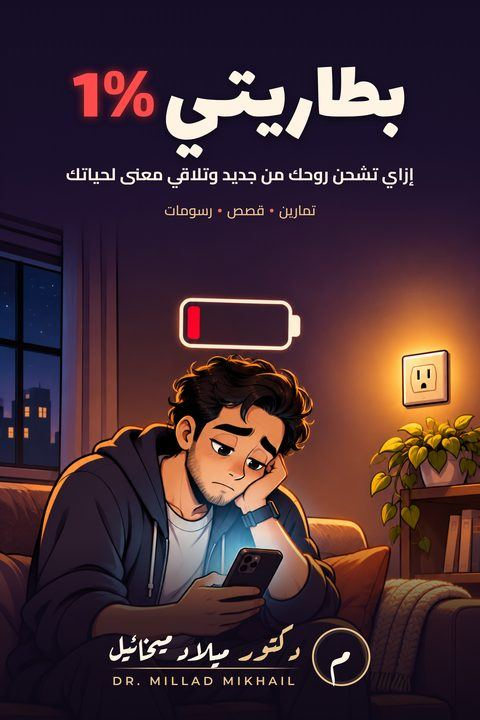
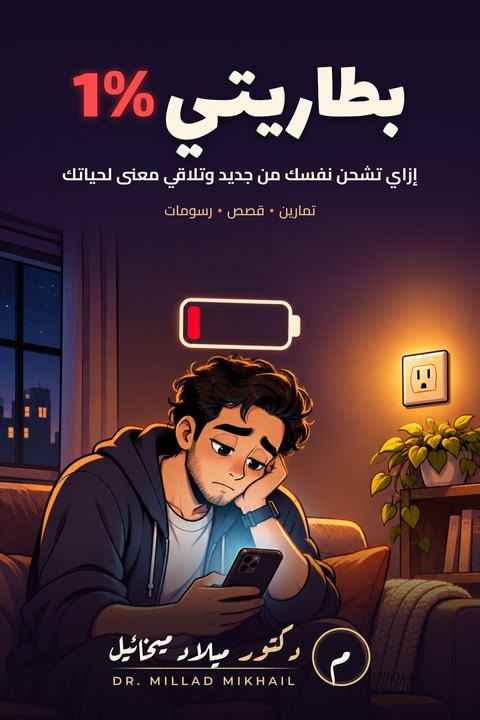
Battery book: mark as published, new cover and subtitle (Amazon link pending)
Buy buttons use the __BATT__ placeholder until the book's ASIN is known; do not merge before it is replaced.

Claude-Session: https://claude.ai/code/session_014DRhzpnqgSUQURJa6KnQ5b

Changed region(s): [[0.125, 0.2139, 0.875, 0.275], [0.9375, 0.5806, 0.9688, 0.6111], [0.625, 0.7333, 0.6562, 0.7639]]

diff --git a/battery/index.html b/battery/index.html
@@ -5,22 +5,22 @@
 <meta http-equiv="Content-Security-Policy" content="default-src 'self'; script-src 'self' https://www.googletagmanager.com https://static.cloudflareinsights.com; style-src 'self' 'unsafe-inline'; font-src 'self'; img-src 'self' https://*.google-analytics.com https://www.googletagmanager.com data: https://images.unsplash.com https://i.ytimg.com; frame-src https://www.youtube-nocookie.com; connect-src 'self' https://*.google-analytics.com https://*.analytics.google.com https://www.googletagmanager.com https://cloudflareinsights.com; object-src 'none'; base-uri 'self'; form-action 'self' https://formsubmit.co; upgrade-insecure-requests">
 <meta name="referrer" content="strict-origin-when-cross-origin">
 <meta name="viewport" content="width=device-width, initial-scale=1">
-<title>بطاريتي 1% (قريبًا) | د. ميلاد ميخائيل</title>
-<meta name="description" content="«بطاريتي 1%»: كتاب جديد قريبًا لـ د. ميلاد ميخائيل عن إزاي تشحن روحك وتلاقي معنى لحياتك.">
+<title>بطاريتي 1% | د. ميلاد ميخائيل</title>
+<meta name="description" content="«بطاريتي 1%»: كتاب جديد لـ د. ميلاد ميخائيل عن إزاي تشحن نفسك من جديد وتلاقي معنى لحياتك. متاح على أمازون كيندل.">
 <link rel="canonical" href="https://drmilladmikhail.com/battery/">
 <meta property="og:site_name" content="د. ميلاد ميخائيل">
 <meta property="og:type" content="website">
 <meta property="og:url" content="https://drmilladmikhail.com/battery/">
-<meta property="og:title" content="بطاريتي 1% (قريبًا)">
-<meta property="og:description" content="«بطاريتي 1%»: كتاب جديد قريبًا لـ د. ميلاد ميخائيل عن إزاي تشحن روحك وتلاقي معنى لحياتك.">
+<meta property="og:title" content="بطاريتي 1%">
+<meta property="og:description" content="«بطاريتي 1%»: كتاب جديد لـ د. ميلاد ميخائيل عن إزاي تشحن نفسك من جديد وتلاقي معنى لحياتك. متاح على أمازون كيندل.">
 <meta property="og:image" content="https://drmilladmikhail.com/assets/og/home.jpg">
 <meta property="og:image:width" content="1200">
 <meta property="og:image:height" content="630">
-<meta property="og:image:alt" content="بطاريتي 1% (قريبًا)">
+<meta property="og:image:alt" content="بطاريتي 1%">
 <meta property="og:locale" content="ar_EG">
 <meta name="twitter:card" content="summary_large_image">
-<meta name="twitter:title" content="بطاريتي 1% (قريبًا)">
-<meta name="twitter:description" content="«بطاريتي 1%»: كتاب جديد قريبًا لـ د. ميلاد ميخائيل عن إزاي تشحن روحك وتلاقي معنى لحياتك.">
+<meta name="twitter:title" content="بطاريتي 1%">
+<meta name="twitter:description" content="«بطاريتي 1%»: كتاب جديد لـ د. ميلاد ميخائيل عن إزاي تشحن نفسك من جديد وتلاقي معنى لحياتك. متاح على أمازون كيندل.">
 <meta name="twitter:image" content="https://drmilladmikhail.com/assets/og/home.jpg">
 <meta name="theme-color" content="#2f6f62">
 <link rel="preload" href="/assets/fonts/ibm-plex-sans-arabic-arabic-400-normal.woff2" as="font" type="font/woff2" crossorigin><link rel="preload" href="/assets/fonts/noto-naskh-arabic-arabic-700-normal.woff2" as="font" type="font/woff2" crossorigin><link rel="stylesheet" href="/assets/fonts.css?v=256db9ca">
@@ -40,7 +40,7 @@
     "url": "https://drmilladmikhail.com/about/"
   },
   "image": "https://drmilladmikhail.com/assets/battery-cover.jpg",
-  "description": "إزاي تشحن روحك من جديد وتلاقي معنى لحياتك — قريبًا."
+  "description": "إزاي تشحن نفسك من جديد وتلاقي معنى لحياتك."
 }
 </script>
 <link rel="stylesheet" id="nav-layout-fix" href="/assets/nav-layout.css?v=50ab5a7b">
@@ -181,26 +181,27 @@
           <img src="/assets/battery-cover.jpg" width="480" height="720" alt="غلاف كتاب بطاريتي 1% لـ د. ميلاد ميخائيل">
         </picture>
         <div>
-          <p class="badge-soon">قريبًا</p>
+          <p class="badge-soon">جديد</p>
           <h1>بطاريتي 1%</h1>
-          <p class="sub">إزاي تشحن روحك من جديد وتلاقي معنى لحياتك</p>
+          <p class="sub">إزاي تشحن نفسك من جديد وتلاقي معنى لحياتك</p>
           <p>كتاب جديد بالعامية المصرية، فيه تمارين وقصص ورسومات، للأيام اللي بتحس فيها إن طاقتك خلصت ومش لاقي سبب تكمّل بيه.</p>
           <p>الكتاب قريب من موضوع رسالة الدكتوراه بتاعتي: الإرشاد بالمعنى (العلاج بالمعنى عند فيكتور فرانكل) والمناعة النفسية، بس مكتوب للناس العادية، مش للمتخصصين.</p>
-          <p><b>عايز تعرف أول ما ينزل؟</b> تابع قناة «جلسة شيزلونج» أو المدونة.</p>
+          <p>هتمشي الرحلة مع سارة وأمير، نفس شخصيات «ليه بنحب اللي بيوجعنا؟»، ومعاك أكتر من 15 تمرين، و4 تحديات 7 أيام، و18 رسمة.</p>
+          <p><b>متاح دلوقتي على أمازون كيندل.</b> تقدر تقراه على تطبيق Kindle المجاني على الموبايل أو الكمبيوتر.</p>
           <div class="actions">
-            <a class="btn primary" href="https://www.youtube.com/@DrMilladMikhail?sub_confirmation=1" target="_blank" rel="noopener">اشترك في القناة</a>
-            <a class="btn" href="https://blog.drmilladmikhail.com/" target="_blank" rel="noopener">المدونة</a>
+            <a class="btn primary" href="__BATT__" target="_blank" rel="noopener">اشتري الكتاب على أمازون</a>
+            <a class="btn" href="/book/">كل كتبي</a>
           </div>
         </div>
       </article>
-      <h2 class="sec-h">لحد ما ينزل، جرّب دول</h2>
+      <h2 class="sec-h">وكمان جرّب دول</h2>
       <ul class="link-grid">
         <li><a href="/game/"><b>لعبة «بطاريتي <span dir="ltr">1%</span>»</b><span>عيش يوم كامل وشوف إيه اللي بيشحنك وإيه اللي بيسحب منك.</span></a></li>
         <li><a href="/tests/wellbeing-who5/"><b>مؤشر الرفاهية النفسية (WHO-5)</b><span>طاقتك ومزاجك عاملين إيه آخر أسبوعين؟</span></a></li>
         <li><a href="/videos/#immunity"><b>فيديوهات المناعة النفسية</b><span>إزاي تقف تاني بعد الضغوط.</span></a></li>
         <li><a href="/articles/"><b>المقالات</b><span>مقال جديد كل اتنين وخميس.</span></a></li>
       </ul>
-      <aside class="share" data-url="https://drmilladmikhail.com/battery/" data-title="بطاريتي 1% — كتاب جديد قريبًا لـ د. ميلاد ميخائيل" aria-label="شارك الصفحة">
+      <aside class="share" data-url="https://drmilladmikhail.com/battery/" data-title="بطاريتي 1% — كتاب جديد لـ د. ميلاد ميخائيل" aria-label="شارك الصفحة">
         <p class="share-title">شارك الصفحة مع حد ممكن يحتاجه</p>
         <div class="share-row">
           <a class="sh sh-wa" href="https://wa.me/?text=%D8%A8%D8%B7%D8%A7%D8%B1%D9%8A%D8%AA%D9%8A%201%25%20%E2%80%94%20%D9%83%D8%AA%D8%A7%D8%A8%20%D8%AC%D8%AF%D9%8A%D8%AF%20%D9%82%D8%B1%D9%8A%D8%A8%D9%8B%D8%A7%20%D9%84%D9%80%20%D8%AF.%20%D9%85%D9%8A%D9%84%D8%A7%D8%AF%20%D9%85%D9%8A%D8%AE%D8%A7%D8%A6%D9%8A%D9%84%20https%3A%2F%2Fdrmilladmikhail.com%2Fbattery%2F" target="_blank" rel="noopener">واتساب</a>

diff --git a/index.html b/index.html
@@ -270,7 +270,7 @@
       "name": "إيه الكتب اللي ألفها؟",
       "acceptedAnswer": {
         "@type": "Answer",
-        "text": "كتاب «ليه بنحب اللي بيوجعنا؟» عن أنماط التعلّق والعلاقات المؤذية، متاح على أمازون بالعربي والإنجليزي. وكتاب «بطاريتي 1%» قريباً."
+        "text": "كتاب «ليه بنحب اللي بيوجعنا؟» عن أنماط التعلّق والعلاقات المؤذية، متاح على أمازون بالعربي والإنجليزي. وكتاب «بطاريتي 1%» عن الإرهاق النفسي والرجوع لمعنى الحياة، متاح على أمازون كيندل."
       }
     },
     {
@@ -583,8 +583,8 @@ html[lang="ar"] body.home-redesign section.section.nl-band p{margin:0;color:rgba
           <img src="/assets/battery-cover.jpg" width="480" height="720" alt="غلاف كتاب بطاريتي 1% لـ د. ميلاد ميخائيل" loading="lazy">
         </picture>
         <div>
-          <p><b>قريباً: بطاريتي <bdi dir="ltr">1%</bdi></b></p>
-          <p>إزاي تشحن روحك من جديد وتلاقي معنى لحياتك. عن الإرهاق النفسي والرجوع لمعنى الحياة. <a href="https://www.amazon.com/stores/author/B0HQ931MJP" target="_blank" rel="noopener">تابع صفحتي على أمازون</a></p>
+          <p><b>جديد: بطاريتي <bdi dir="ltr">1%</bdi></b></p>
+          <p>إزاي تشحن نفسك من جديد وتلاقي معنى لحياتك. عن الإرهاق النفسي والرجوع لمعنى الحياة. <a href="__BATT__" target="_blank" rel="noopener">متاح دلوقتي على أمازون</a></p>
         </div>
       </div>
     </div>
@@ -756,7 +756,7 @@ html[lang="ar"] body.home-redesign section.section.nl-band p{margin:0;color:rgba
         <details class="faq-item"><summary>هل د. ميلاد منير هو نفسه د. ميلاد ميخائيل؟</summary><p>أيوه، نفس الشخص. اسمه بالكامل ميلاد منير ميخائيل. اسمه دلوقتي د. ميلاد ميخائيل (Dr. Millad Mikhail)، وكان معروف قبل كده بـ«د. ميلاد منير» و«د. ميلاد منير ميخائيل»، خصوصاً في فيديوهات قناة «جلسة شيزلونج» القديمة.</p></details>
         <details class="faq-item"><summary>إيه مؤهلاته العلمية؟</summary><p>دكتوراه في الصحة النفسية من جامعة قناة السويس (2022)، وماجستير التربية تخصص الصحة النفسية من جامعة قناة السويس (2018)، والدبلوم المتخصص في الإرشاد وعلم النفس الإكلينيكي من جامعة طنطا (2021)، والدبلوم الخاص والدبلوم العام في التربية من جامعة قناة السويس. مؤهلاته مقيّمة ومعادلة أمريكياً من World Education Services (WES)، وبيدرس حالياً مقررات دراسات عليا في علم النفس كطالب زائر في JFK School of Psychology بجامعة National University في أمريكا.</p></details>
         <details class="faq-item"><summary>رسالة الدكتوراه بتاعته كانت عن إيه؟</summary><p>عنوانها «فعالية الإرشاد بالمعنى في خفض مستوى القلق الوجودي وتحسين مستوى المناعة النفسية لدى طلاب الجامعة»، من قسم الصحة النفسية بكلية التربية بالإسماعيلية، جامعة قناة السويس (2022).</p></details>
-        <details class="faq-item"><summary>إيه الكتب اللي ألفها؟</summary><p>كتاب «ليه بنحب اللي بيوجعنا؟» عن أنماط التعلّق والعلاقات المؤذية، متاح على أمازون بالعربي والإنجليزي. وكتاب «بطاريتي 1%» قريباً.</p></details>
+        <details class="faq-item"><summary>إيه الكتب اللي ألفها؟</summary><p>كتاب «ليه بنحب اللي بيوجعنا؟» عن أنماط التعلّق والعلاقات المؤذية، متاح على أمازون بالعربي والإنجليزي. وكتاب «بطاريتي 1%» عن الإرهاق النفسي والرجوع لمعنى الحياة، متاح على أمازون كيندل.</p></details>
         <details class="faq-item"><summary>هل د. ميلاد بيقدّم جلسات نفسية؟</summary><p>أيوه، بيقدّم جلسات نفسية أونلاين لأهلنا في مصر والوطن العربي، بالعربي، فيديو أو صوت، والحجز بيكون على واتساب. الجلسات مش خدمة طوارئ. <a href="/sessions/">تفاصيل الجلسات</a></p></details>
         <details class="faq-item"><summary>أتابعه فين؟</summary><p>على الموقع ده (مقالات واختبارات نفسية مجانية)، وقناة «جلسة شيزلونج» على يوتيوب، ومدونة «راحة البال» على blog.drmilladmikhail.com، وLinkedIn، وصفحته كمؤلف على أمازون.</p></details>
       </div>

diff --git a/book/index.html b/book/index.html
@@ -6,13 +6,13 @@
 <meta name="referrer" content="strict-origin-when-cross-origin">
 <meta name="viewport" content="width=device-width, initial-scale=1">
 <title>الكتب | د. ميلاد ميخائيل</title>
-<meta name="description" content="كتب د. ميلاد ميخائيل بالعامية: «ليه بنحب اللي بيوجعنا؟» عن نمط التعلق واختيار شريك الحياة، و«بطاريتي 1%» قريبًا.">
+<meta name="description" content="كتب د. ميلاد ميخائيل بالعامية: «ليه بنحب اللي بيوجعنا؟» عن نمط التعلق واختيار شريك الحياة، و«بطاريتي 1%» عن الإرهاق النفسي والرجوع لمعنى الحياة.">
 <link rel="canonical" href="https://drmilladmikhail.com/book/">
 <meta property="og:site_name" content="د. ميلاد ميخائيل">
 <meta property="og:type" content="website">
 <meta property="og:url" content="https://drmilladmikhail.com/book/">
 <meta property="og:title" content="الكتب">
-<meta property="og:description" content="كتب د. ميلاد ميخائيل بالعامية: «ليه بنحب اللي بيوجعنا؟» عن نمط التعلق واختيار شريك الحياة، و«بطاريتي 1%» قريبًا.">
+<meta property="og:description" content="كتب د. ميلاد ميخائيل بالعامية: «ليه بنحب اللي بيوجعنا؟» عن نمط التعلق واختيار شريك الحياة، و«بطاريتي 1%» عن الإرهاق النفسي والرجوع لمعنى الحياة.">
 <meta property="og:image" content="https://drmilladmikhail.com/assets/og/home.jpg">
 <meta property="og:image:width" content="1200">
 <meta property="og:image:height" content="630">
@@ -20,7 +20,7 @@
 <meta property="og:locale" content="ar_EG">
 <meta name="twitter:card" content="summary_large_image">
 <meta name="twitter:title" content="الكتب">
-<meta name="twitter:description" content="كتب د. ميلاد ميخائيل بالعامية: «ليه بنحب اللي بيوجعنا؟» عن نمط التعلق واختيار شريك الحياة، و«بطاريتي 1%» قريبًا.">
+<meta name="twitter:description" content="كتب د. ميلاد ميخائيل بالعامية: «ليه بنحب اللي بيوجعنا؟» عن نمط التعلق واختيار شريك الحياة، و«بطاريتي 1%» عن الإرهاق النفسي والرجوع لمعنى الحياة.">
 <meta name="twitter:image" content="https://drmilladmikhail.com/assets/og/home.jpg">
 <meta name="theme-color" content="#2f6f62">
 <link rel="preload" href="/assets/fonts/ibm-plex-sans-arabic-arabic-400-normal.woff2" as="font" type="font/woff2" crossorigin><link rel="preload" href="/assets/fonts/noto-naskh-arabic-arabic-700-normal.woff2" as="font" type="font/woff2" crossorigin><link rel="stylesheet" href="/assets/fonts.css?v=256db9ca">
@@ -273,11 +273,14 @@
           <img src="/assets/battery-cover.jpg" width="480" height="720" alt="غلاف كتاب بطاريتي 1%" loading="lazy">
         </picture>
         <div>
-          <p class="badge-soon">قريبًا</p>
+          <p class="badge-soon">جديد</p>
           <h2>بطاريتي 1%</h2>
-          <p class="sub">إزاي تشحن روحك من جديد وتلاقي معنى لحياتك</p>
+          <p class="sub">إزاي تشحن نفسك من جديد وتلاقي معنى لحياتك</p>
           <p>تمارين وقصص ورسومات، للأيام اللي بتحس فيها إن طاقتك خلصت.</p>
-          <div class="actions"><a class="btn" href="/battery/">اعرف أكتر</a></div>
+          <div class="actions">
+            <a class="btn primary" href="__BATT__" target="_blank" rel="noopener">اشتري الكتاب (Kindle)</a>
+            <a class="btn" href="/battery/">اعرف أكتر</a>
+          </div>
         </div>
       </article>
       <aside class="share" data-url="https://drmilladmikhail.com/book/" data-title="كتب د. ميلاد ميخائيل: ليه بنحب اللي بيوجعنا؟ وبطاريتي 1%" aria-label="شارك الصفحة">

diff --git a/shelf/index.html b/shelf/index.html
@@ -255,7 +255,7 @@
         <p><b>رأيي فيه:</b> الفرق بين «العقلية الثابتة» و«عقلية النمو»: إنك تشوف الفشل معلومة مش حكم عليك.</p><p class="bk-for"><b>مناسب لـ:</b> الطلاب، والأهالي، واللي بيخاف يجرّب عشان ميفشلش.</p>
         <div class="rate" role="group" aria-label="قيّم الكتاب ده">قرأته؟ قيّمه: <button type="button" class="star" data-v="1" aria-label="1 من 5">★</button><button type="button" class="star" data-v="2" aria-label="2 من 5">★</button><button type="button" class="star" data-v="3" aria-label="3 من 5">★</button><button type="button" class="star" data-v="4" aria-label="4 من 5">★</button><button type="button" class="star" data-v="5" aria-label="5 من 5">★</button><span class="rate-msg"></span></div></div></li></ul>
       <p class="fine">تقييمك بيتحفظ على جهازك بس. التقييمات العامة والمراجعات هتظهر في التعليقات تحت لما تفتح.</p>
-      <div class="two shelf-more"><div><h2>من كتبي</h2><ul class="res-list"><li><a href="/book/"><b>ليه بنحب اللي بيوجعنا؟</b><span>كتابي عن أنماط التعلّق والعلاقات المؤذية، بالعربي والإنجليزي.</span></a></li><li><a href="/battery/"><b>بطاريتي 1%</b><span>قريباً: عن الإرهاق النفسي والرجوع لمعنى الحياة.</span></a></li></ul></div>
+      <div class="two shelf-more"><div><h2>من كتبي</h2><ul class="res-list"><li><a href="/book/"><b>ليه بنحب اللي بيوجعنا؟</b><span>كتابي عن أنماط التعلّق والعلاقات المؤذية، بالعربي والإنجليزي.</span></a></li><li><a href="/battery/"><b>بطاريتي 1%</b><span>كتابي التاني عن الإرهاق النفسي والرجوع لمعنى الحياة، متاح على أمازون كيندل.</span></a></li></ul></div>
       <div><h2>أدوات ومحتوى مسموع</h2><ul class="res-list"><li><a href="https://www.youtube.com/@DrMilladMikhail" target="_blank" rel="noopener"><b>قناة «جلسة شيزلونج» على يوتيوب</b><span>فيديوهات بالعربي عن العلاقات والقلق والمعنى، تتسمع زي البودكاست.</span></a></li><li><a href="https://insighttimer.com/" target="_blank" rel="noopener"><b>Insight Timer</b><span>تطبيق مجاني فيه آلاف التأملات وتمارين التنفس، وفيه محتوى بلغات كتير.</span></a></li><li><a href="/feelings/"><b>عجلة المشاعر</b><span>أداة على الموقع تساعدك تسمّي إحساسك بالظبط.</span></a></li><li><a href="/worksheets/"><b>أوراق التمرين</b><span>ملفات PDF مجانية تطبعها وتكتب فيها.</span></a></li></ul></div></div>
       <section class="story-send suggest" aria-labelledby="sug-h">
         <h2 id="sug-h">اقترح كتاب أو أداة فرقت معاك</h2>

diff --git a/about/index.html b/about/index.html
@@ -287,7 +287,7 @@
       <ul class="link-grid">
         <li><a href="/about/qualifications/"><b>المؤهلات العلمية</b><span>الدرجات العلمية والتقييم الأمريكي (WES).</span></a></li>
         <li><a href="/about/publications/"><b>الرسائل العلمية والأبحاث</b><span>رسالة الدكتوراه والماجستير وأبحاث المؤتمرات.</span></a></li>
-        <li><a href="/book/"><b>الكتب</b><span>«ليه بنحب اللي بيوجعنا؟» و«بطاريتي 1%» (قريبًا).</span></a></li>
+        <li><a href="/book/"><b>الكتب</b><span>«ليه بنحب اللي بيوجعنا؟» و«بطاريتي 1%».</span></a></li>
         <li><a href="/articles/"><b>المقالات</b><span>مقالات مبسّطة بمراجع علمية.</span></a></li>
         <li><a href="/family/"><b>التوعية الأسرية والزوجية</b><span>كل محتوى العلاقات والزواج في مكان واحد.</span></a></li>
         <li><a href="/contact/"><b>تواصل</b><span>للجلسات أو التعاون أو الأسئلة.</span></a></li>

diff --git a/game/index.html b/game/index.html
@@ -203,7 +203,7 @@
         <p>لو بتمر بأزمة دلوقتي أو عندك أفكار إنك تأذي نفسك: في مصر الخط الساخن للدعم النفسي <b>16328</b>، وفي أمريكا <b>988</b> (اتصال أو رسالة). وكل الأرقام في صفحة <a href="/help-now/">محتاج مساعدة دلوقتي</a>.</p>
       </div>
       <ul class="link-grid">
-        <li><a href="/battery/"><b>كتاب «بطاريتي <span dir="ltr">1%</span>»</b><span>إزاي تشحن روحك من جديد وتلاقي معنى لحياتك.</span></a></li>
+        <li><a href="/battery/"><b>كتاب «بطاريتي <span dir="ltr">1%</span>»</b><span>إزاي تشحن نفسك من جديد وتلاقي معنى لحياتك.</span></a></li>
         <li><a href="/tests/burnout-cbi/"><b>مقياس الاحتراق النفسي</b><span>تعبك ده إرهاق عادي ولا احتراق؟</span></a></li>
         <li><a href="/tests/meaning-in-life-mlq/"><b>مقياس المعنى في الحياة</b><span>حاسس إن حياتك ليها معنى؟</span></a></li>
       </ul>

diff --git a/assets/game/game.js b/assets/game/game.js
@@ -177,7 +177,7 @@
       '<div class="bg-actions"><button type="button" class="bg-btn" data-act="share">صورة لنتيجتك</button>' +
       '<button type="button" class="bg-btn bg-ghost" data-act="again">عيش يوم جديد</button></div>' +
       '<div class="bg-share" hidden></div>' +
-      '<div class="bg-card bg-book"><h3>الحكاية مكمّلة في الكتاب</h3><p>«بطاريتي 1%: إزاي تشحن روحك من جديد وتلاقي معنى لحياتك». تمارين وقصص ورسومات بالعامية المصرية.</p>' +
+      '<div class="bg-card bg-book"><h3>الحكاية مكمّلة في الكتاب</h3><p>«بطاريتي 1%: إزاي تشحن نفسك من جديد وتلاقي معنى لحياتك». تمارين وقصص ورسومات بالعامية المصرية.</p>' +
       '<a class="bg-link" href="/battery/">اعرف أكتر عن الكتاب</a></div>' +
       "</div>");
   }

diff --git a/tools/build_pages.py b/tools/build_pages.py
@@ -205,11 +205,14 @@ def book_page():
           <img src="/assets/battery-cover.jpg" width="480" height="720" alt="غلاف كتاب بطاريتي 1%" loading="lazy">
         </picture>
         <div>
-          <p class="badge-soon">قريبًا</p>
+          <p class="badge-soon">جديد</p>
           <h2>بطاريتي 1%</h2>
-          <p class="sub">إزاي تشحن روحك من جديد وتلاقي معنى لحياتك</p>
+          <p class="sub">إزاي تشحن نفسك من جديد وتلاقي معنى لحياتك</p>
           <p>تمارين وقصص ورسومات، للأيام اللي بتحس فيها إن طاقتك خلصت.</p>
-          <div class="actions"><a class="btn" href="/battery/">اعرف أكتر</a></div>
+          <div class="actions">
+            <a class="btn primary" href="__BATT__" target="_blank" rel="noopener">اشتري الكتاب (Kindle)</a>
+            <a class="btn" href="/battery/">اعرف أكتر</a>
+          </div>
         </div>
       </article>
       {ba.share_block(SITE + "/book/", "كتب د. ميلاد ميخائيل: ليه بنحب اللي بيوجعنا؟ وبطاريتي 1%", "شارك الصفحة")}
@@ -222,7 +225,7 @@ def book_page():
            "sameAs": [ba.BOOK_AR, ba.BOOK_EN], "datePublished": "2026"},
           {"@context": "https://schema.org", "@type": "FAQPage",
            "mainEntity": [{"@type": "Question", "name": q, "acceptedAnswer": {"@type": "Answer", "text": a}} for q, a in FAQ]}]
-    write("book", page("book", "الكتب", "كتب د. ميلاد ميخائيل بالعامية: «ليه بنحب اللي بيوجعنا؟» عن نمط التعلق واختيار شريك الحياة، و«بطاريتي 1%» قريبًا.", body, ld))
+    write("book", page("book", "الكتب", "كتب د. ميلاد ميخائيل بالعامية: «ليه بنحب اللي بيوجعنا؟» عن نمط التعلق واختيار شريك الحياة، و«بطاريتي 1%» عن الإرهاق النفسي والرجوع لمعنى الحياة.", body, ld))
 
 
 # ------------------------------------------------------------------ battery
@@ -235,33 +238,34 @@ def battery_page():
           <img src="/assets/battery-cover.jpg" width="480" height="720" alt="غلاف كتاب بطاريتي 1% لـ د. ميلاد ميخائيل">
         </picture>
         <div>
-          <p class="badge-soon">قريبًا</p>
+          <p class="badge-soon">جديد</p>
           <h1>بطاريتي 1%</h1>
-          <p class="sub">إزاي تشحن روحك من جديد وتلاقي معنى لحياتك</p>
+          <p class="sub">إزاي تشحن نفسك من جديد وتلاقي معنى لحياتك</p>
           <p>كتاب جديد بالعامية المصرية، فيه تمارين وقصص ورسومات، للأيام اللي بتحس فيها إن طاقتك خلصت ومش لاقي سبب تكمّل بيه.</p>
           <p>الكتاب قريب من موضوع رسالة الدكتوراه بتاعتي: الإرشاد بالمعنى (العلاج بالمعنى عند فيكتور فرانكل) والمناعة النفسية، بس مكتوب للناس العادية، مش للمتخصصين.</p>
-          <p><b>عايز تعرف أول ما ينزل؟</b> تابع قناة «جلسة شيزلونج» أو المدونة.</p>
+          <p>هتمشي الرحلة مع سارة وأمير، نفس شخصيات «ليه بنحب اللي بيوجعنا؟»، ومعاك أكتر من 15 تمرين، و4 تحديات 7 أيام، و18 رسمة.</p>
+          <p><b>متاح دلوقتي على أمازون كيندل.</b> تقدر تقراه على تطبيق Kindle المجاني على الموبايل أو الكمبيوتر.</p>
           <div class="actions">
-            <a class="btn primary" href="https://www.youtube.com/@DrMilladMikhail?sub_confirmation=1" target="_blank" rel="noopener">اشترك في القناة</a>
-            <a class="btn" href="https://blog.drmilladmikhail.com/" target="_blank" rel="noopener">المدونة</a>
+            <a class="btn primary" href="__BATT__" target="_blank" rel="noopener">اشتري الكتاب على أمازون</a>
+            <a class="btn" href="/book/">كل كتبي</a>
           </div>
         </div>
       </article>
-      <h2 class="sec-h">لحد ما ينزل، جرّب دول</h2>
+      <h2 class="sec-h">وكمان جرّب دول</h2>
       <ul class="link-grid">
         <li><a href="/game/"><b>لعبة «بطاريتي <span dir="ltr">1%</span>»</b><span>عيش يوم كامل وشوف إيه اللي بيشحنك وإيه اللي بيسحب منك.</span></a></li>
         <li><a href="/tests/wellbeing-who5/"><b>مؤشر الرفاهية النفسية (WHO-5)</b><span>طاقتك ومزاجك عاملين إيه آخر أسبوعين؟</span></a></li>
         <li><a href="/videos/#immunity"><b>فيديوهات المناعة النفسية</b><span>إزاي تقف تاني بعد الضغوط.</span></a></li>
         <li><a href="/articles/"><b>المقالات</b><span>مقال جديد كل اتنين وخميس.</span></a></li>
       </ul>
-      {ba.share_block(SITE + "/battery/", "بطاريتي 1% — كتاب جديد قريبًا لـ د. ميلاد ميخائيل", "شارك الصفحة")}
+      {ba.share_block(SITE + "/battery/", "بطاريتي 1% — كتاب جديد لـ د. ميلاد ميخائيل", "شارك الصفحة")}
     </div>
   </section>'''
     ld = {"@context": "https://schema.org", "@type": "Book", "name": "بطاريتي 1%",
           "alternateName": "My Battery Is at 1%", "inLanguage": "ar", "url": f"{SITE}/battery/",
           "author": {"@id": f"{SITE}/#person", "@type": "Person", "name": "Dr. Millad Mikhail"},
-          "image": f"{SITE}/assets/battery-cover.jpg", "description": "إزاي تشحن روحك من جديد وتلاقي معنى لحياتك — قريبًا."}
-    write("battery", page("battery", "بطاريتي 1% (قريبًا)", "«بطاريتي 1%»: كتاب جديد قريبًا لـ د. ميلاد ميخائيل عن إزاي تشحن روحك وتلاقي معنى لحياتك.", body, ld))
+          "image": f"{SITE}/assets/battery-cover.jpg", "description": "إزاي تشحن نفسك من جديد وتلاقي معنى لحياتك."}
+    write("battery", page("battery", "بطاريتي 1%", "«بطاريتي 1%»: كتاب جديد لـ د. ميلاد ميخائيل عن إزاي تشحن نفسك من جديد وتلاقي معنى لحياتك. متاح على أمازون كيندل.", body, ld))
 
 
 # ------------------------------------------------------------------ questions

diff --git a/tools/build_identity.py b/tools/build_identity.py
@@ -145,7 +145,7 @@ def about_page(ba, page, write):
       <ul class="link-grid">
         <li><a href="/about/qualifications/"><b>المؤهلات العلمية</b><span>الدرجات العلمية والتقييم الأمريكي (WES).</span></a></li>
         <li><a href="/about/publications/"><b>الرسائل العلمية والأبحاث</b><span>رسالة الدكتوراه والماجستير وأبحاث المؤتمرات.</span></a></li>
-        <li><a href="/book/"><b>الكتب</b><span>«ليه بنحب اللي بيوجعنا؟» و«بطاريتي 1%» (قريبًا).</span></a></li>
+        <li><a href="/book/"><b>الكتب</b><span>«ليه بنحب اللي بيوجعنا؟» و«بطاريتي 1%».</span></a></li>
         <li><a href="/articles/"><b>المقالات</b><span>مقالات مبسّطة بمراجع علمية.</span></a></li>
         <li><a href="/family/"><b>التوعية الأسرية والزوجية</b><span>كل محتوى العلاقات والزواج في مكان واحد.</span></a></li>
         <li><a href="/contact/"><b>تواصل</b><span>للجلسات أو التعاون أو الأسئلة.</span></a></li>

diff --git a/tools/build_game.py b/tools/build_game.py
@@ -36,7 +36,7 @@ def build(ba, page, write, SITE):
         <p>لو بتمر بأزمة دلوقتي أو عندك أفكار إنك تأذي نفسك: في مصر الخط الساخن للدعم النفسي <b>16328</b>، وفي أمريكا <b>988</b> (اتصال أو رسالة). وكل الأرقام في صفحة <a href="/help-now/">محتاج مساعدة دلوقتي</a>.</p>
       </div>
       <ul class="link-grid">
-        <li><a href="/battery/"><b>كتاب «بطاريتي <span dir="ltr">1%</span>»</b><span>إزاي تشحن روحك من جديد وتلاقي معنى لحياتك.</span></a></li>
+        <li><a href="/battery/"><b>كتاب «بطاريتي <span dir="ltr">1%</span>»</b><span>إزاي تشحن نفسك من جديد وتلاقي معنى لحياتك.</span></a></li>
         <li><a href="/tests/burnout-cbi/"><b>مقياس الاحتراق النفسي</b><span>تعبك ده إرهاق عادي ولا احتراق؟</span></a></li>
         <li><a href="/tests/meaning-in-life-mlq/"><b>مقياس المعنى في الحياة</b><span>حاسس إن حياتك ليها معنى؟</span></a></li>
       </ul>
